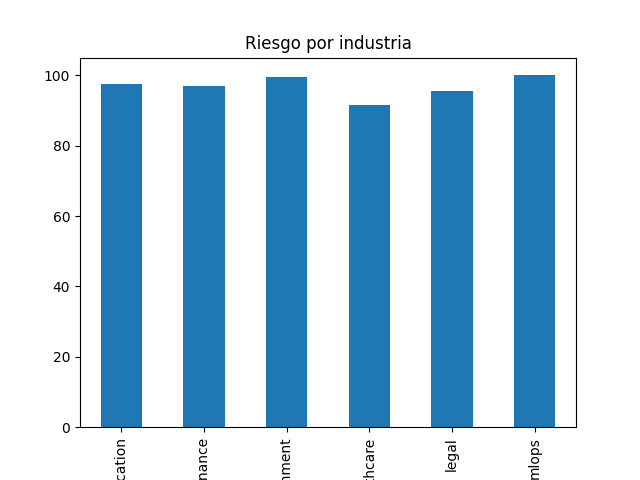
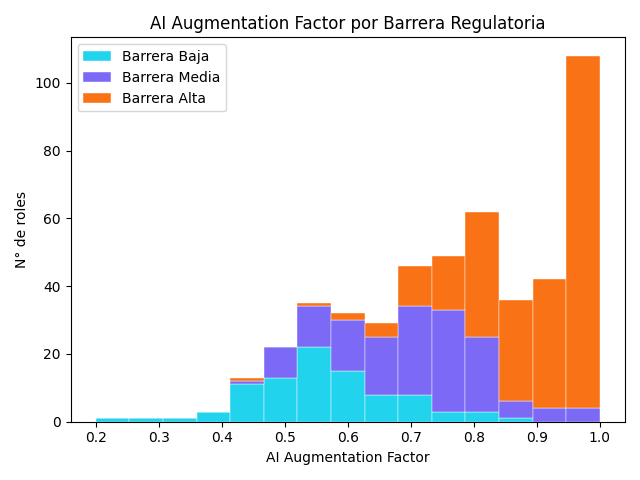
grafico 5

diff --git a/app.py b/app.py
@@ -60,16 +60,28 @@ def generar_graficos():
     plt.close()
 
     plt.figure()
-    df.groupby('Industry')['Automation_Risk_Index'].mean().plot(kind='bar')
-    plt.title("Riesgo por industria")
-    plt.savefig(os.path.join(STATIC_DIR, 'g2.png'))
-    plt.close()
-
-    plt.figure()
     df.groupby('Substitution_Year_Est')['Automation_Risk_Index'].mean().plot()
     plt.title("Reemplazo en el tiempo")
     plt.savefig(os.path.join(STATIC_DIR, 'g3.png'))
     plt.close()
+
+    low  = df[df["Regulatory_Moat"] == "Low"]["AI_Augmentation_Factor"].values
+    med  = df[df["Regulatory_Moat"] == "Med"]["AI_Augmentation_Factor"].values
+    high = df[df["Regulatory_Moat"] == "High"]["AI_Augmentation_Factor"].values
+ 
+    plt.figure()
+    plt.hist([low, med, high], bins=15, stacked=True,
+             color=["#22d3ee", "#7c6af7", "#f97316"],
+             label=["Barrera Baja", "Barrera Media", "Barrera Alta"],
+             edgecolor="white", linewidth=0.3)
+ 
+    plt.xlabel("AI Augmentation Factor")
+    plt.ylabel("N° de roles")
+    plt.title("AI Augmentation Factor por Barrera Regulatoria")
+    plt.legend()
+    plt.tight_layout()
+    plt.savefig(os.path.join(STATIC_DIR, 'g2.png'))
+ 
 
     
     plt.figure(figsize=(10,6))